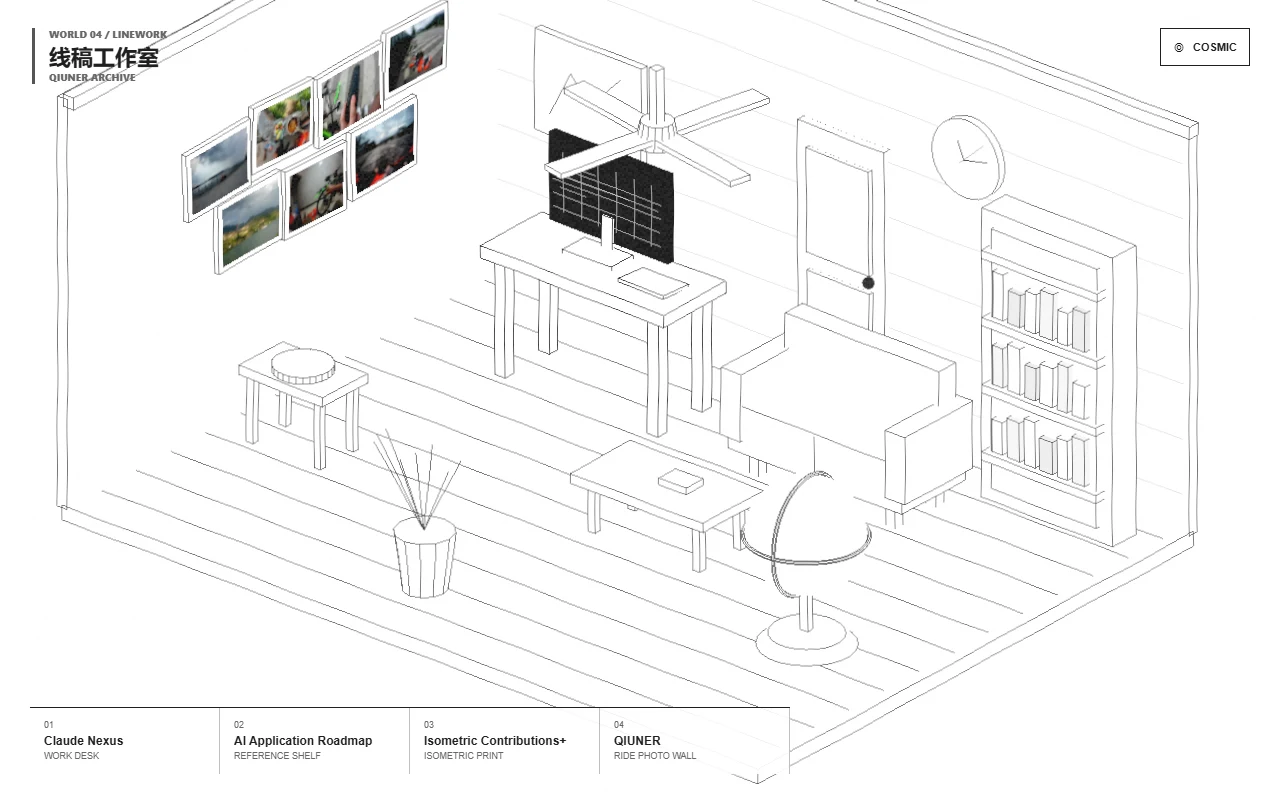
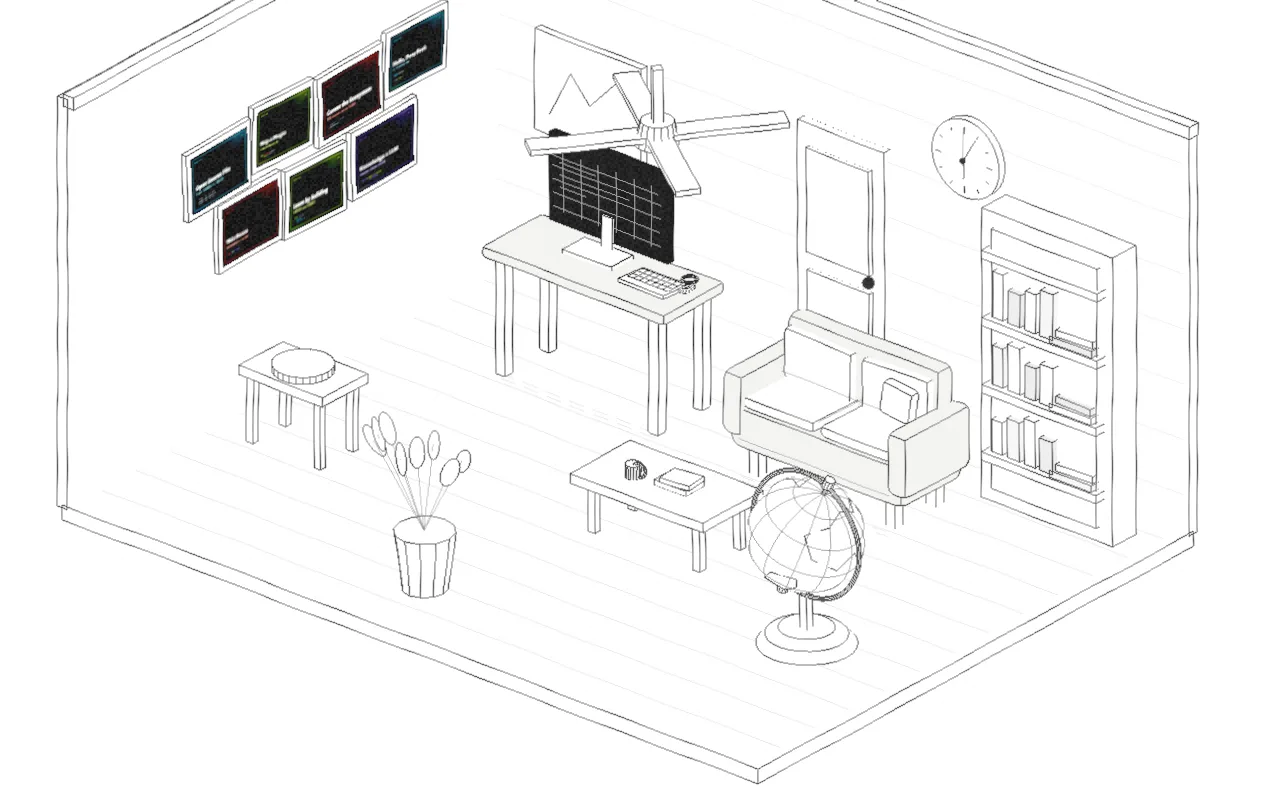
feat(site): 更新宇宙与线稿世界的封面截图 / refresh Cosmic and Linework cover images

diff --git a/src/showcase.css b/src/showcase.css
@@ -181,8 +181,7 @@ html[data-showcase] .world-showcase {
   box-shadow: 0 20px 60px rgb(0 0 0 / 50%), 0 0 40px rgb(89 230 255 / 14%);
 }
 
-.world-showcase-card img,
-.world-showcase-stars {
+.world-showcase-card img {
   position: absolute;
   inset: 0;
   width: 100%;
@@ -193,44 +192,11 @@ html[data-showcase] .world-showcase {
   transition: scale 900ms cubic-bezier(0.2, 0.8, 0.2, 1), filter 500ms ease-out;
 }
 
-.world-showcase-card:hover :is(img, .world-showcase-stars),
-.world-showcase-card:focus-within :is(img, .world-showcase-stars),
-.world-showcase-list:not(:hover, :focus-within) > .world-showcase-card:first-child :is(img, .world-showcase-stars) {
+.world-showcase-card:hover img,
+.world-showcase-card:focus-within img,
+.world-showcase-list:not(:hover, :focus-within) > .world-showcase-card:first-child img {
   scale: 1;
   filter: none;
-}
-
-/* Cosmic 没有场景截图，用星点 + 星云渐变近似其世界观。 */
-.world-showcase-stars {
-  background:
-    radial-gradient(1.5px 1.5px at 12% 18%, #fff, transparent),
-    radial-gradient(1px 1px at 28% 72%, #fff, transparent),
-    radial-gradient(1.5px 1.5px at 44% 36%, #dff, transparent),
-    radial-gradient(1px 1px at 62% 14%, #fff, transparent),
-    radial-gradient(2px 2px at 78% 58%, #fff, transparent),
-    radial-gradient(1px 1px at 88% 26%, #cfe, transparent),
-    radial-gradient(1px 1px at 18% 88%, #fff, transparent),
-    radial-gradient(1.5px 1.5px at 54% 84%, #fff, transparent),
-    radial-gradient(1px 1px at 92% 82%, #fff, transparent),
-    radial-gradient(1px 1px at 36% 8%, #fff, transparent),
-    radial-gradient(55% 45% at 30% 35%, rgb(57 118 255 / 55%), transparent 70%),
-    radial-gradient(50% 40% at 75% 65%, rgb(200 80 255 / 38%), transparent 70%),
-    radial-gradient(35% 30% at 60% 30%, rgb(89 230 255 / 30%), transparent 70%),
-    #04060f;
-}
-
-.world-showcase-stars::after {
-  position: absolute;
-  top: 50%;
-  left: 50%;
-  width: min(46%, 220px);
-  aspect-ratio: 1;
-  border-radius: 50%;
-  background: radial-gradient(circle at 35% 30%, #9fd6ff, #2c4fd8 55%, #0a1240 100%);
-  box-shadow: 0 0 60px rgb(89 160 255 / 55%), inset -18px -18px 40px rgb(0 0 0 / 55%);
-  content: "";
-  translate: -50% -58%;
-  animation: sc-planet-float 7s ease-in-out infinite;
 }
 
 .world-showcase-shade {
@@ -430,12 +396,6 @@ html[data-world="archipelago"] .world-home-link {
   }
 }
 
-@keyframes sc-planet-float {
-  50% {
-    translate: -50% -64%;
-  }
-}
-
 /* 窄屏：改为纵向卡片列表，全部常显简介，不依赖悬停。 */
 @media (max-width: 760px) {
   html[data-showcase] .world-showcase {
@@ -465,7 +425,7 @@ html[data-world="archipelago"] .world-home-link {
     height: 230px;
   }
 
-  .world-showcase-card :is(img, .world-showcase-stars) {
+  .world-showcase-card img {
     scale: 1;
     filter: brightness(0.85);
   }
